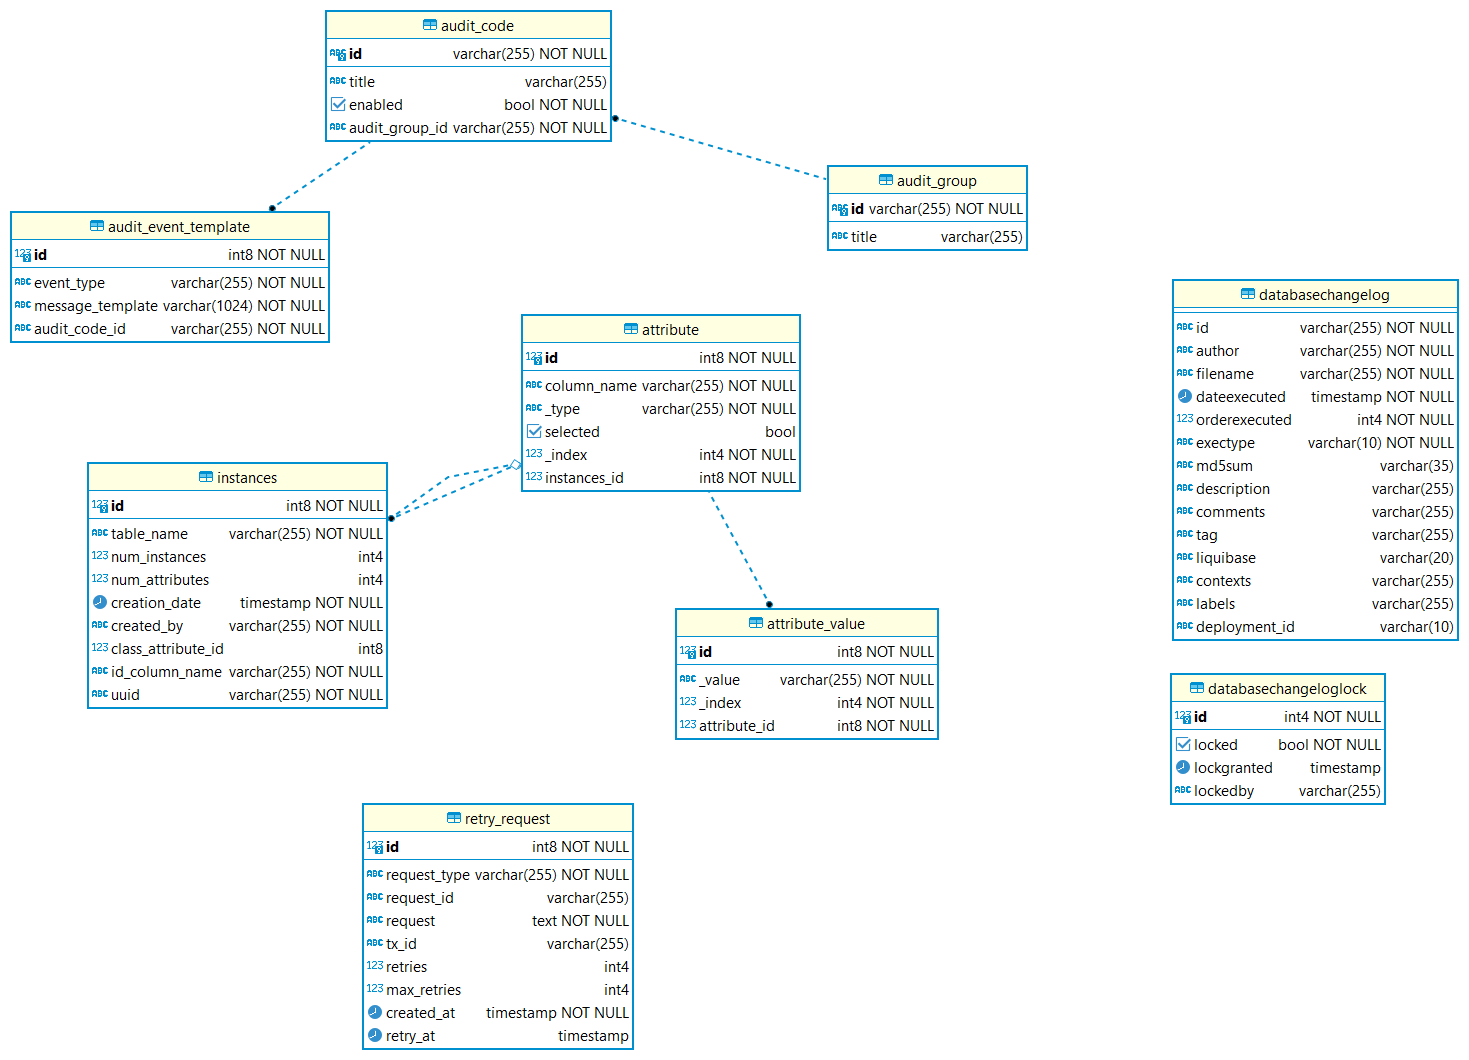
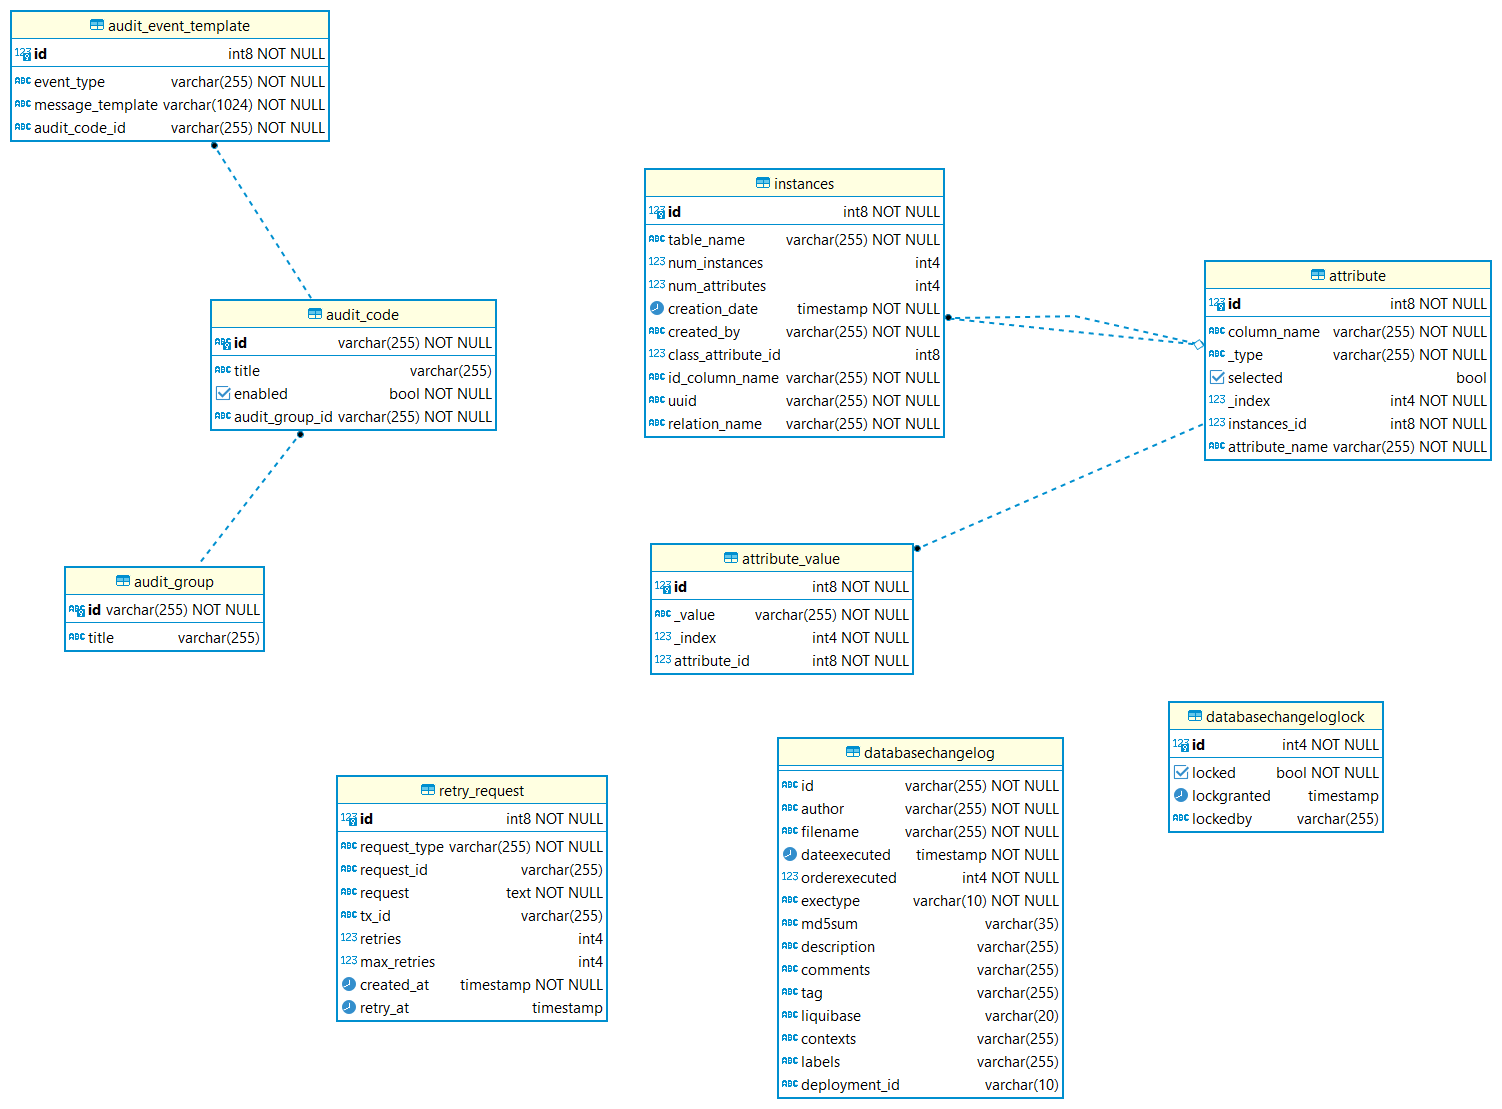
#ES-283 - updated docs

Changed region(s): [[0.0, 0.1245, 1.0, 0.9962], [0.0306, 0.4358, 0.4289, 0.9962], [0.0, 0.0, 0.4289, 0.1557]]

diff --git a/eca-data-storage/src/main/java/com/ecaservice/data/storage/controller/web/DataStorageController.java b/eca-data-storage/src/main/java/com/ecaservice/data/storage/controller/web/DataStorageController.java
@@ -309,7 +309,7 @@ public class DataStorageController {
     @PutMapping(value = "/rename")
     public void rename(@Parameter(description = "Instances id", example = "1", required = true)
                        @Min(VALUE_1) @Max(Long.MAX_VALUE) @RequestParam long id,
-                       @Parameter(description = "Table name", required = true)
+                       @Parameter(description = "Relation name", required = true)
                        @Size(min = VALUE_1, max = MAX_TABLE_NAME_LENGTH) @RequestParam String relationName) {
         storageService.renameData(id, relationName);
     }
